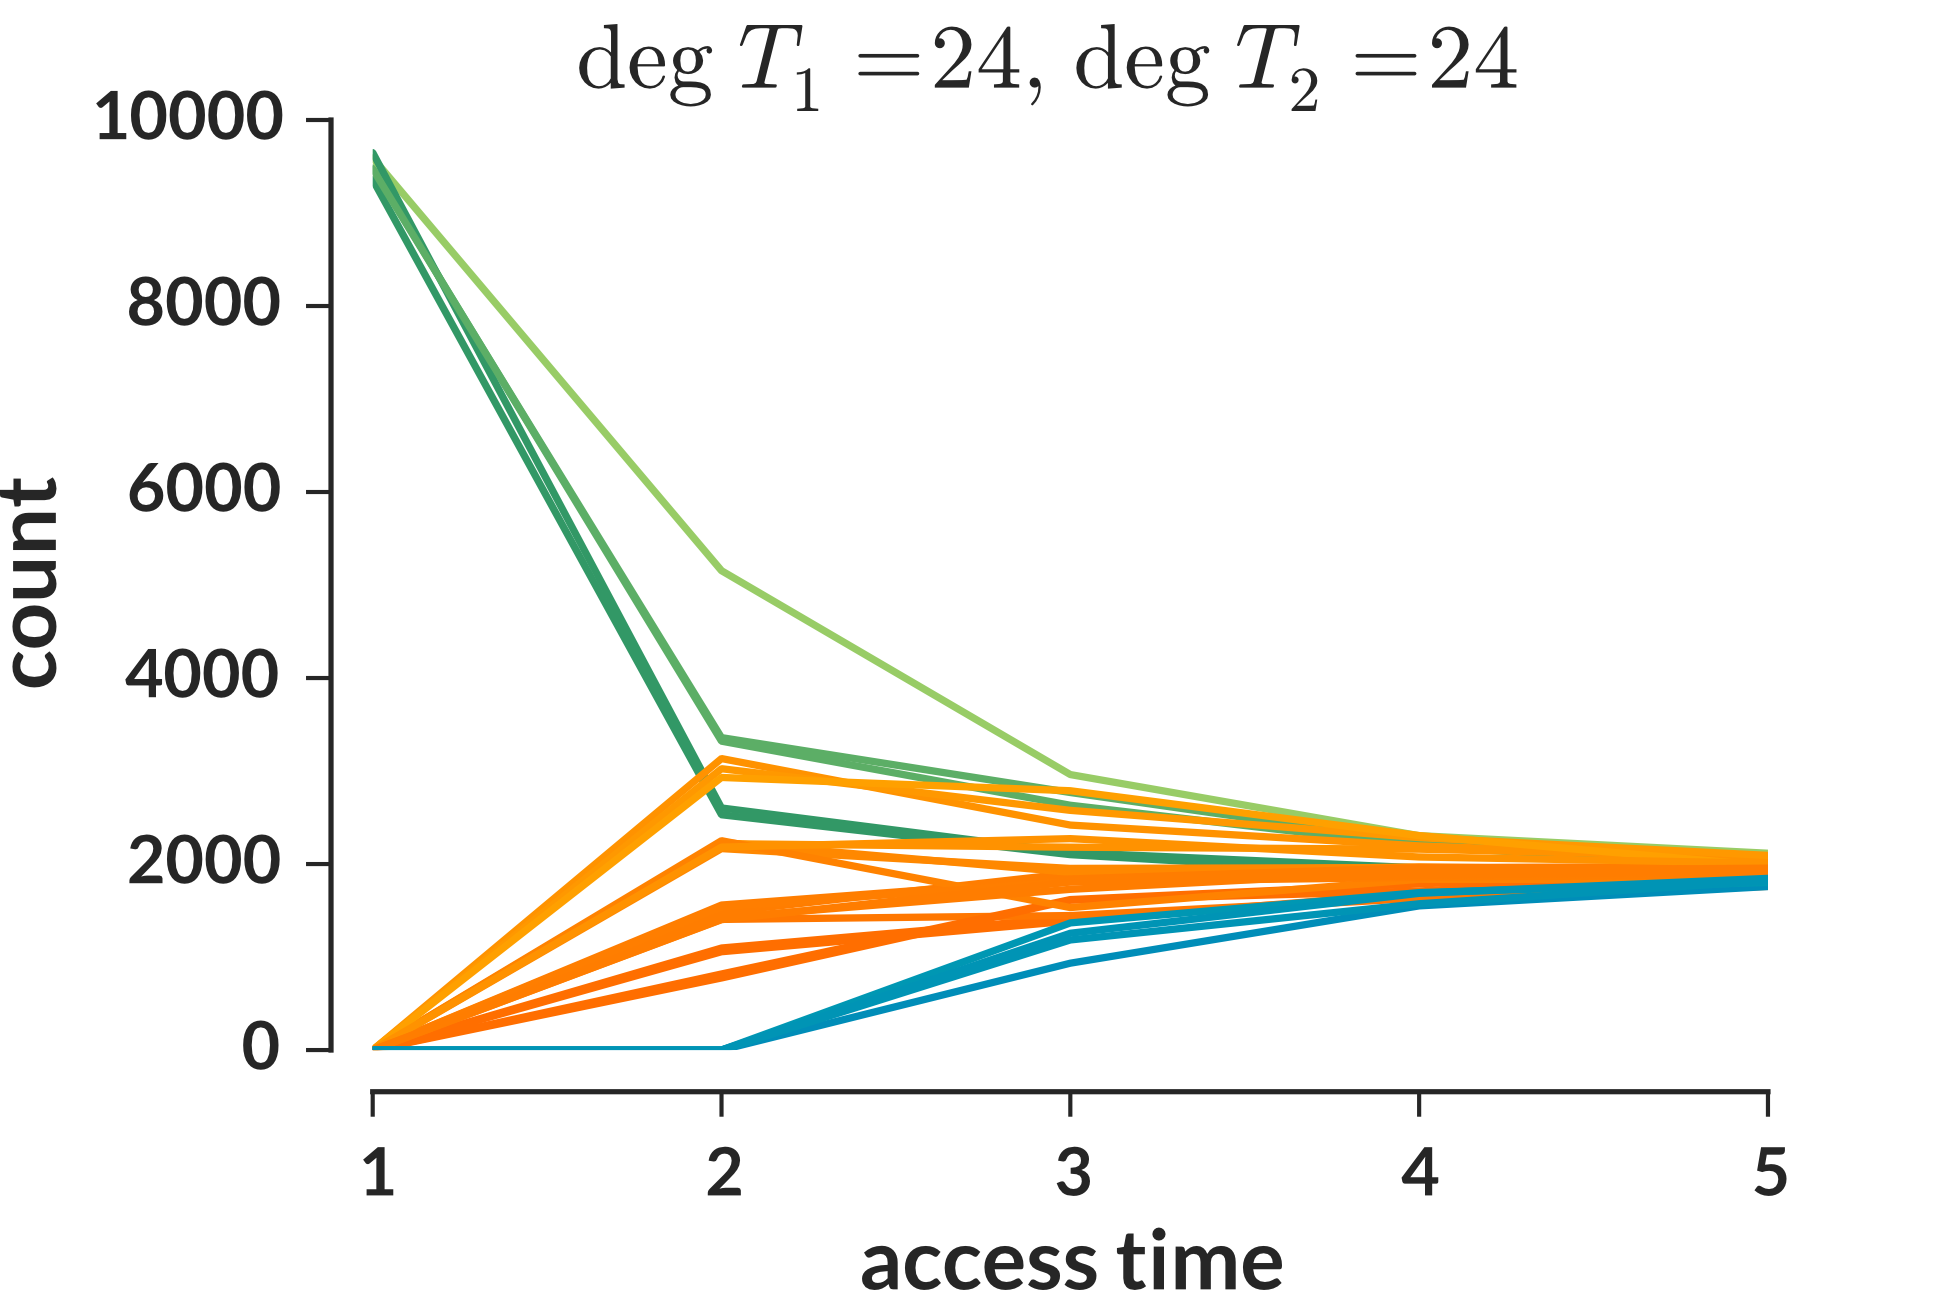
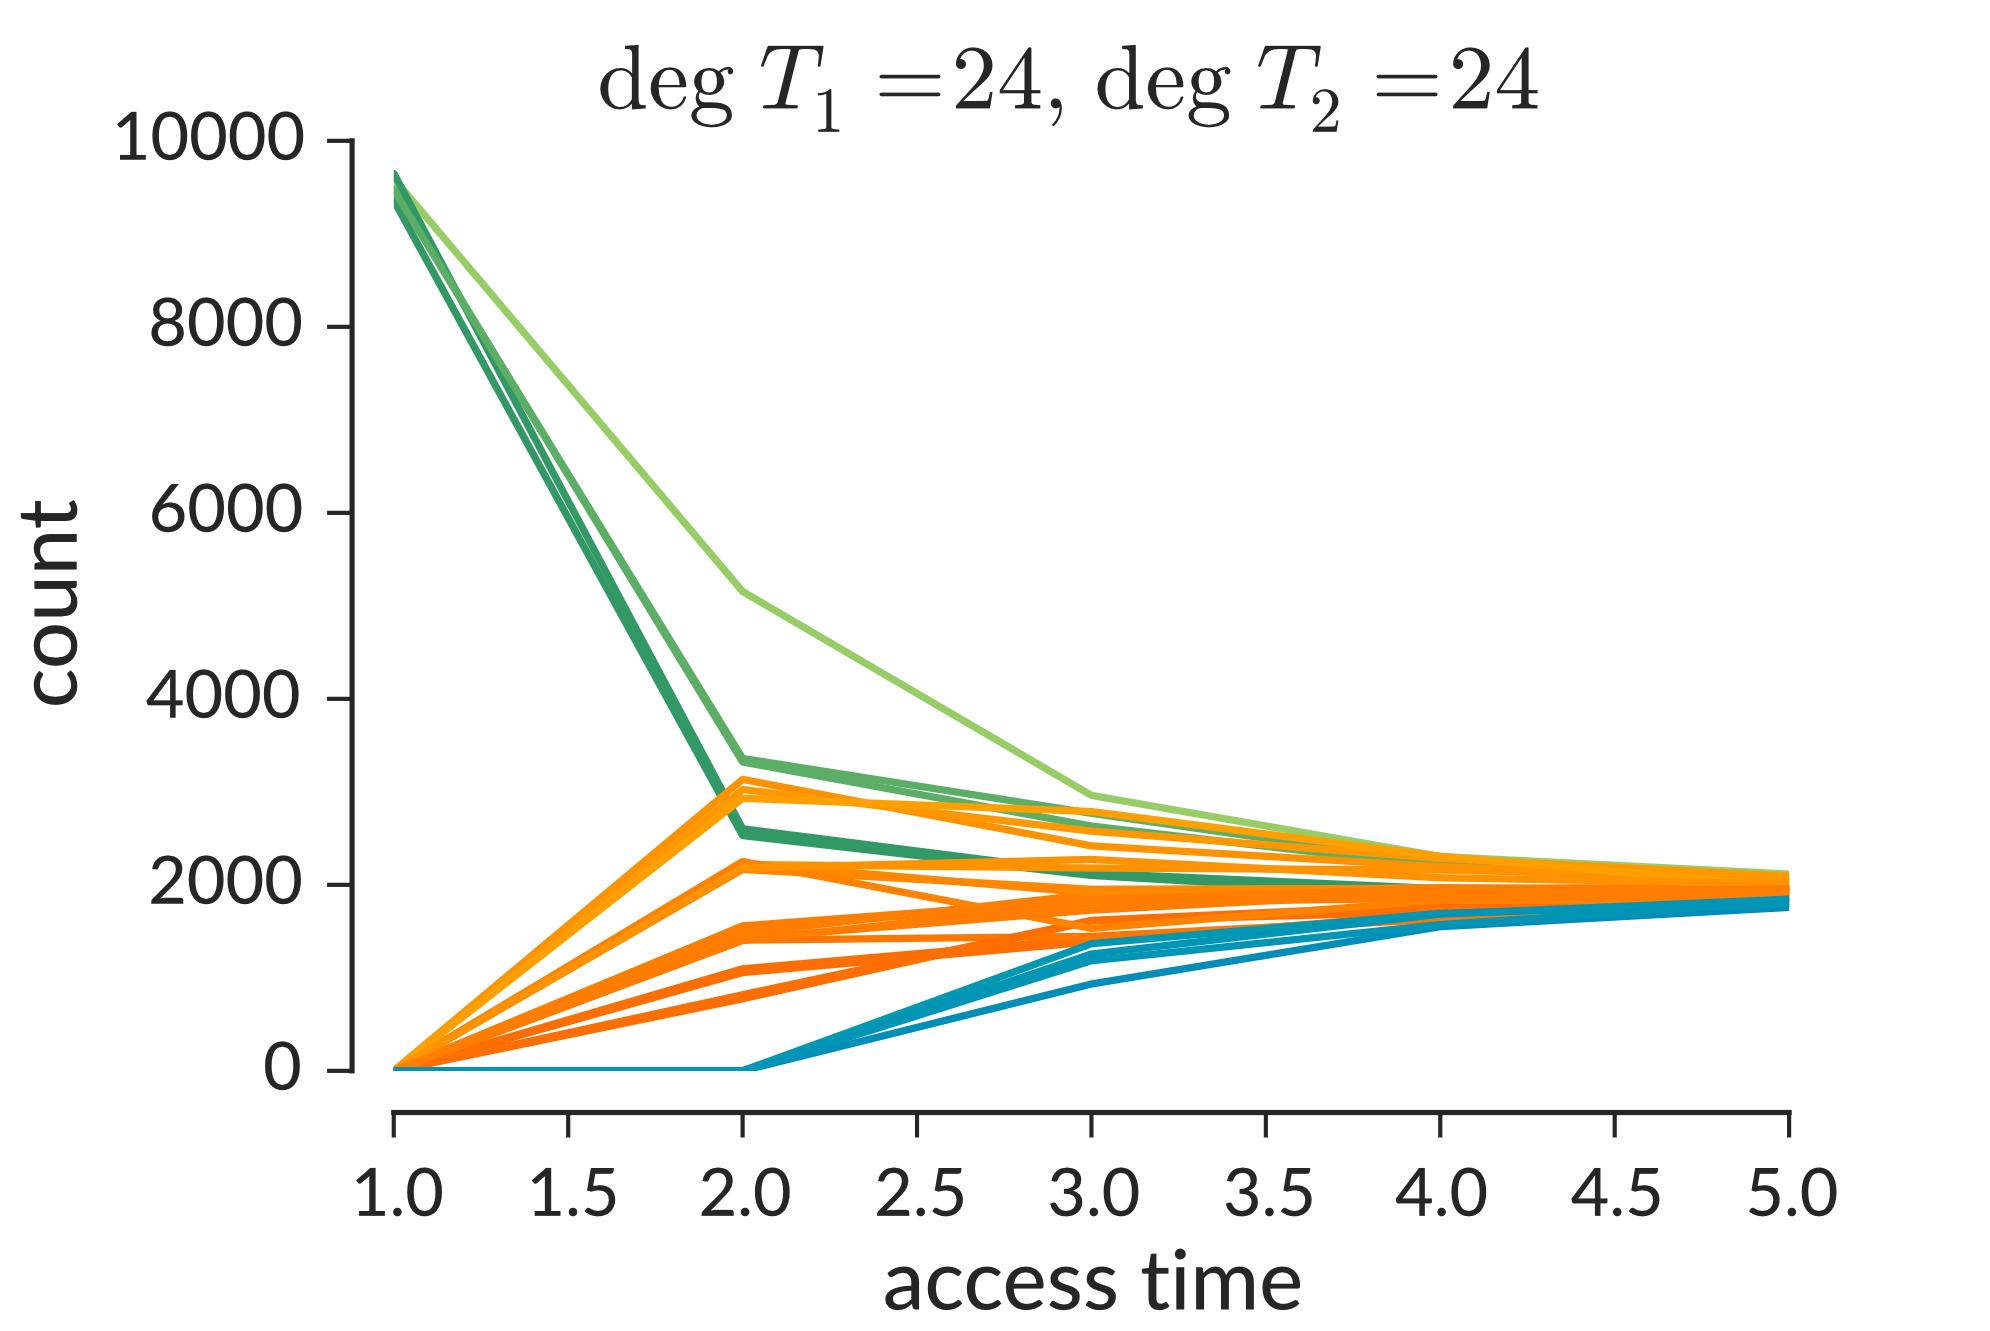
revised access time figures, correct text references

diff --git a/curvature.tex b/curvature.tex
@@ -575,8 +575,8 @@ To calculate the empirical distributions of access times we aggregate all access
 	\includegraphics[width=\textwidth]{figs/access5-distribution.png}
 
 	\caption{\
-        Distribution of rSPR $\MH$ access times for all pairs of 5-taxon trees, grouped by the degree of the trees.
-        Color signifies rSPR distance between the trees, with green, orange, and blue signifying distances of 1, 2, and 3, respectively; the saturation of the color shows coarse curvature $\curvature{\MH; \cdot, \cdot}$, such that increased saturation (i.e.\ darker color) indicates a smaller $\kappa$.
+        Distribution of rSPR $\MH$ access times (x-axis) for all pairs of 5-taxon trees, grouped by the degree of the trees.
+        Color signifies rSPR distance between the trees, with green, orange, blue, light blue, and brown signifying distances of 1, 2, 3, 4, and 5, respectively; the saturation of the color shows coarse curvature $\curvature{\MH; \cdot, \cdot}$, such that increased saturation (i.e.\ darker color) indicates a smaller $\kappa$.
 	}
 	\label{fig:kappa-access-distribution}
 \end{figure*}
@@ -591,7 +591,7 @@ To calculate the empirical distributions of access times we aggregate all access
 	\hspace*{\stretch{1}}
 	\subfigure[\label{fig:5t-long-time-kappa-access}]{\includegraphics[width=2.3in]{figs/5t-long-time-kappa-access}}
 	\hspace*{\stretch{2}}
-	\subfigure[\label{fig:7t-short-time-kappa-access}]{\includegraphics[width=2.3in]{figs/6t-long-time-kappa-access}}
+	\subfigure[\label{fig:6t-long-time-kappa-access}]{\includegraphics[width=2.3in]{figs/6t-long-time-kappa-access}}
 	\hspace*{\stretch{1}}
     \caption{\
         Distribution of early rSPR $\MH$ access times for those pairs of (a) 6-taxon trees with degree 44 and (b) 7-taxon trees with degree 70.
@@ -603,12 +603,12 @@ To calculate the empirical distributions of access times we aggregate all access
 \end{figure*}
 
 We find that the mean access time between trees $T_1$ and $T_2$ is determined by $\degree{T_1}$ and $\degree{T_2}$ (Table~\ref{tab:regressionMAT}).
-Furthermore, plotting the distribution of access times between pairs of trees with respect to their distance and curvature hints that smaller $\kappa$ slightly shifts the distribution of access times towards larger access times (Fig.~\ref{fig:short-time-kappa-access}).
+Furthermore, plotting the distribution of access times between pairs of trees with respect to their distance and curvature hints that smaller $\kappa$ slightly shifts the distribution of access times towards larger access times (Fig.~\ref{fig:kappa-access-distribution}, Fig.~\ref{fig:6t-short-time-kappa-access}, and Fig.~\ref{fig:7t-short-time-kappa-access}).
 We quantify this effect by defining $\delta_1$ to be the difference between the first pair of access time counts such that the second entry in the pair is nonzero.
-For example, $\delta_1$ for distance 1 pairs (green lines in Fig.~\ref{fig:kappa-access}) is the count for time 1 minus the count for time 2, while $\delta_1$ for distance 3 pairs (blue lines in Fig.~\ref{fig:kappa-access}) is the count for time 2 minus the count for time 3.
+For example, $\delta_1$ for distance 1 pairs (green lines in Fig.~\ref{fig:kappa-access-distribution}) is the count for time 1 minus the count for time 2, while $\delta_1$ for distance 3 pairs (blue lines in Fig.~\ref{fig:kappa-access-distribution}) is the count for time 2 minus the count for time 3.
 Regression finds a clear influence of $\kappa$ on $\delta_1$ (Table~\ref{tab:regressionDelta}).
 This confirms the intuitive interpretation of $\kappa(T_1, T_2)$ as quantifying the propensity of a random walk to go from $T_1$ to $T_2$ relatively directly, certainly before the random walk achieves stationarity.
-On the other hand, if the random walk starting from $T_1$ does not quickly arrive at $T_2$ and instead achieves stationarity, the original position of the random walk is forgotten, and the access time is then a standard exponentially distributed waiting time for an event in a Poisson process (Fig.~\ref{fig:long-time-kappa-access}).
+On the other hand, if the random walk starting from $T_1$ does not quickly arrive at $T_2$ and instead achieves stationarity, the original position of the random walk is forgotten, and the access time is then a standard exponentially distributed waiting time for an event in a Poisson process (Fig.~\ref{fig:5t-long-time-kappa-access} and Fig.~\ref{fig:6t-long-time-kappa-access}).
 
 
 
